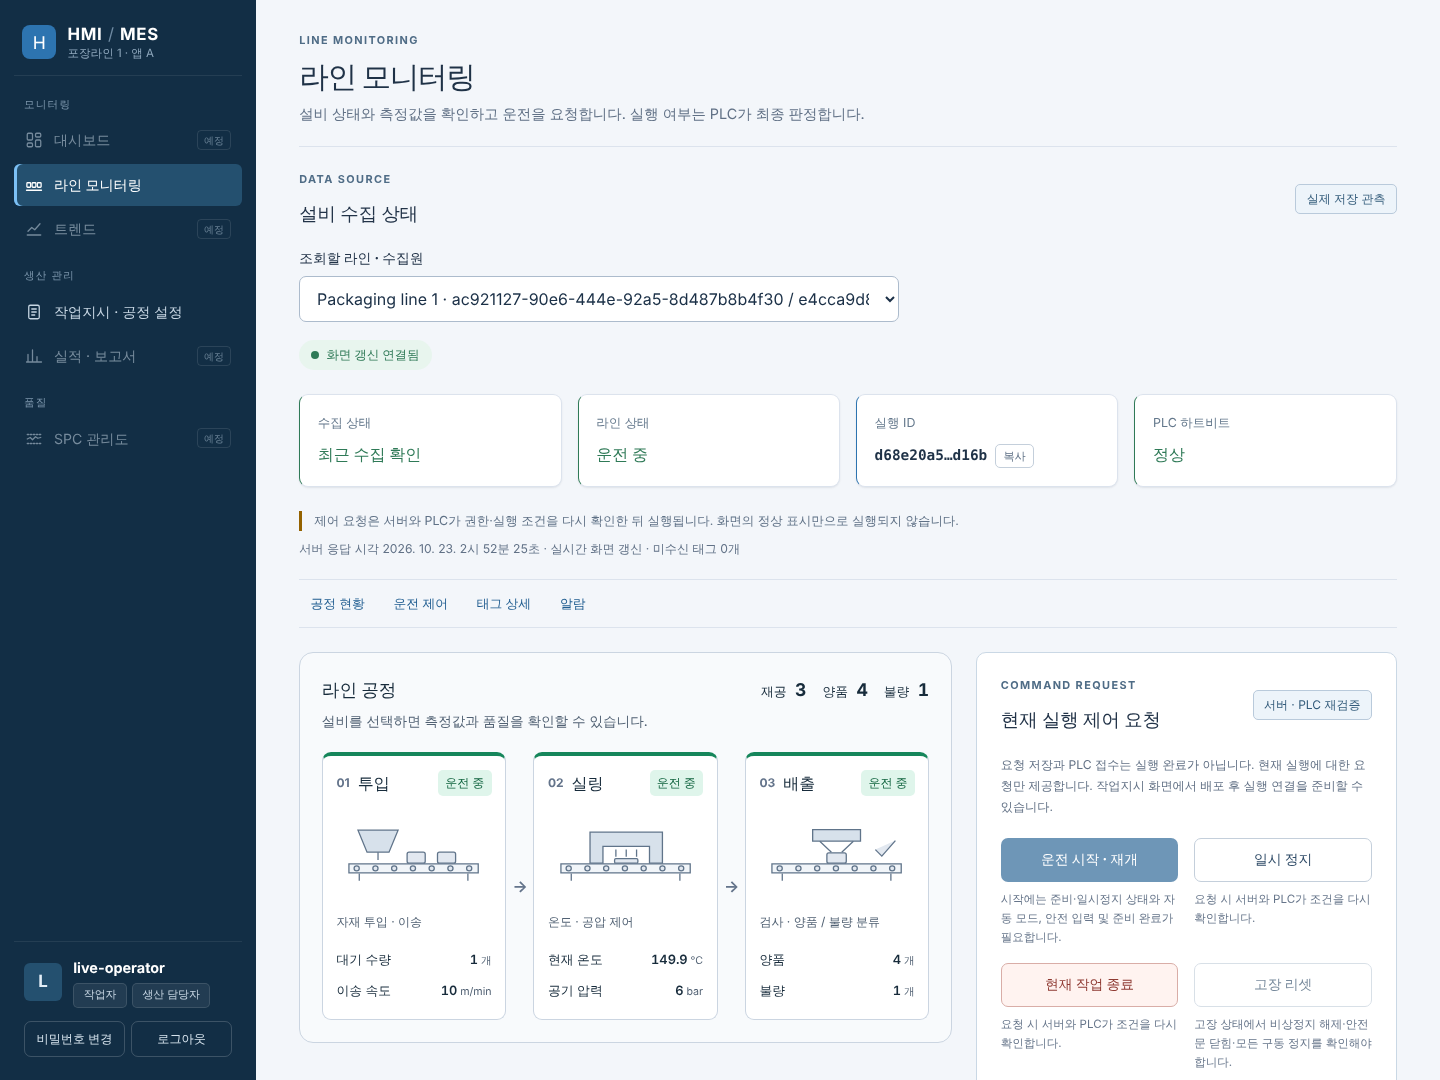
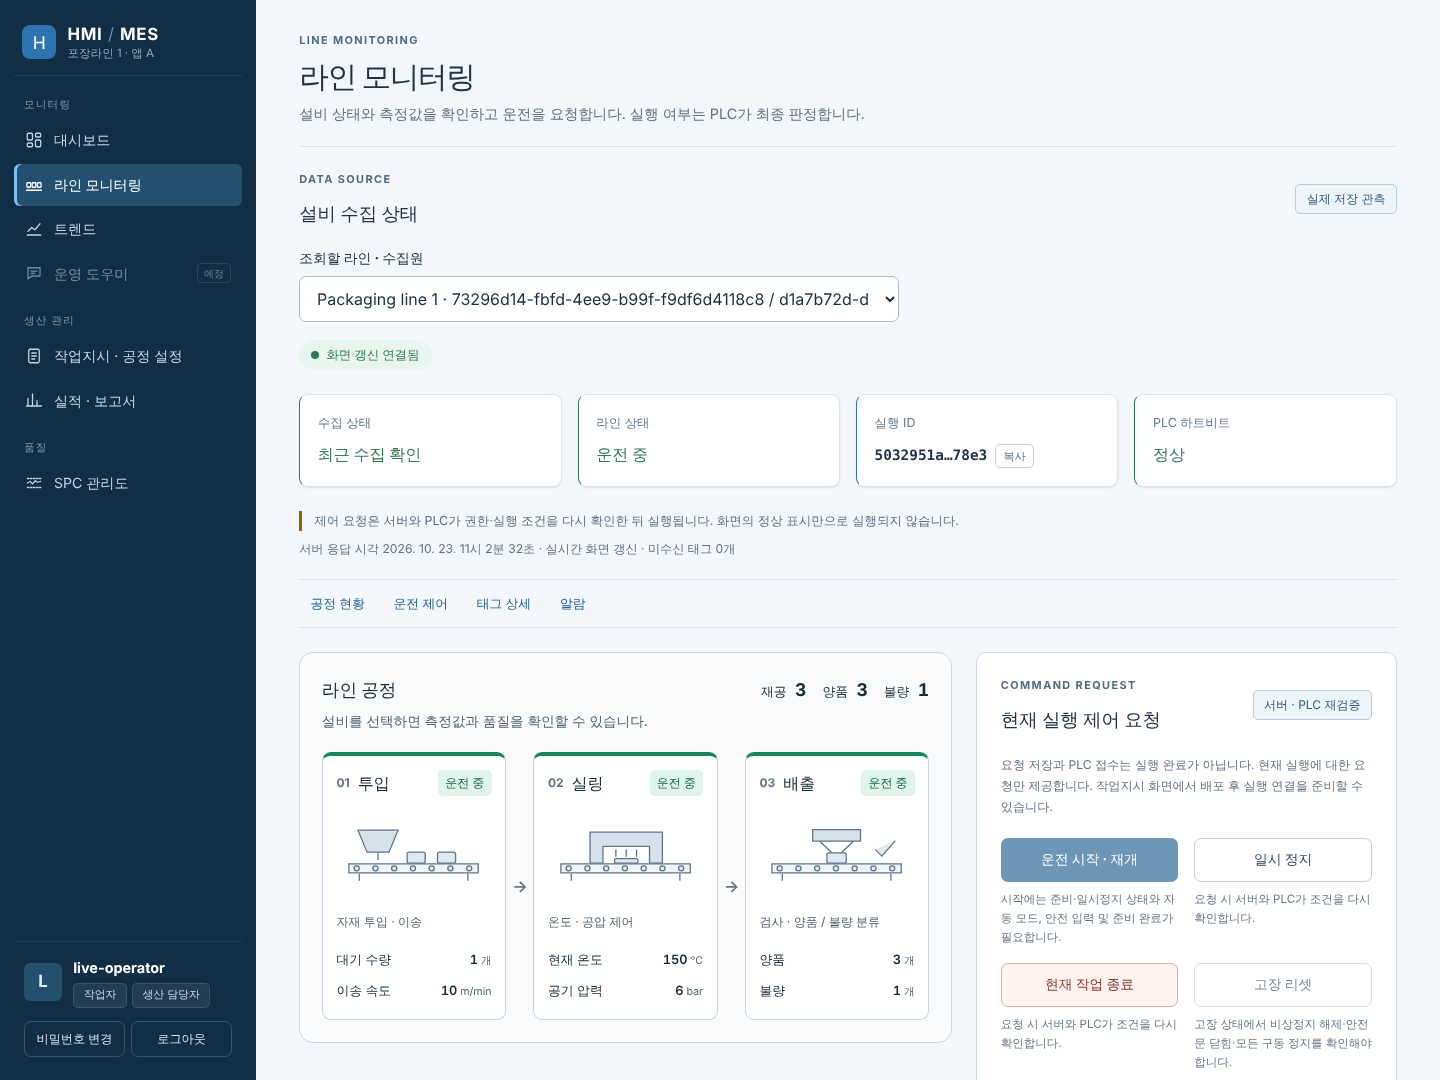
docs(readme): replace trend and report previews with live clock-evidence screens (UX-12)
Claude-Session: https://claude.ai/code/session_0144piUQ1zxLu9Jgprunurpv

diff --git a/README.md b/README.md
@@ -24,13 +24,18 @@ KULS가 공개한 [HMI 시스템 구성예시](https://www.kuls.co.kr/ict/kict/i
 |---|---|
 | 공정도, 48개 태그와 품질, 운전 요청·원래 ID 추적, 실링기 아날로그 알람 | 공정 설정 버전·작업지시 등록, 배포, 라인 실행 연결, 미연결 작업 취소 |
 
-대시보드·트렌드·실적 보고서·SPC 관리도는 서버 API와 결합해 로컬 실제 실행(생산→종료→정산 후 네 화면 조회, CSV 내려받기)으로 검증했습니다. 다만 설비와 서버의 시각 일치 근거(시간 정책)를 아직 실행 환경에 구성하지 않아, 실제 실행에서는 트렌드 값과 가동 시간이 "시간 불명"으로 표시됩니다([작업지시서 v1.1 CX-09](docs/work-orders/CODEX_KULS_보강_v1.md)). 공개 배포에는 아직 적용하지 않았습니다. 아래 이미지는 계약 형식의 **고정 데이터로 렌더링한 미리보기**입니다.
+대시보드·트렌드·실적 보고서·SPC 관리도는 서버 API와 결합해 로컬 실제 실행(생산 → 종료 → 정산 후 화면 조회, CSV 내려받기)으로 검증했습니다. 조회 전용 운영 도우미(챗봇, NVIDIA Nemotron)는 공개 배포에서 실제 모델 응답을 확인했습니다. 같은 호스트의 시계 근거를 켠 실행에서는 트렌드 값과 가동·정지·불명 시간이 실제로 계산됩니다. 근거가 없는 구간은 정상으로 바꾸지 않고 "불명"으로 남깁니다.
 
-| 생산 대시보드 (미리보기) | 설비 트렌드 (미리보기) |
+| 설비 트렌드 (실제 운전) | 실적 · 보고서 (실제 운전) |
 |---|---|
-| ![대시보드 미리보기](docs/assets/screenshots/preview-dashboard.png) | ![트렌드 미리보기](docs/assets/screenshots/preview-trends.png) |
-| **실적 · 보고서 (미리보기)** | **SPC 관리도 (미리보기)** |
-| ![보고서 미리보기](docs/assets/screenshots/preview-reports.png) | ![SPC 미리보기](docs/assets/screenshots/preview-spc.png) |
+| ![트렌드 — 실제 운전](docs/assets/screenshots/live-trends.png) | ![보고서 — 실제 운전](docs/assets/screenshots/live-reports.png) |
+| 1분 남짓의 운전이라 값이 있는 구간으로 자동 확대했습니다. 실링 온도가 설정값까지 오르는 곡선입니다. | 실행별 수량·정산과 가동·정지·불명 시간입니다. 시작 직후 근거가 없는 1초는 "불명"으로 남습니다. |
+| **생산 대시보드 (미리보기)** | **SPC 관리도 (미리보기)** |
+| ![대시보드 미리보기](docs/assets/screenshots/preview-dashboard.png) | ![SPC 미리보기](docs/assets/screenshots/preview-spc.png) |
+
+<sub>위 두 장은 로컬 실제 운전 화면입니다. 아래 두 장은 계약 형식의 **고정 데이터로 렌더링한 미리보기**입니다. 짧은 검증 운전으로는 하루 단위 대시보드가 대부분 "불명"으로 나오고, SPC 관리한계는 20분 이상의 부분군이 쌓여야 계산되기 때문입니다.</sub>
+
+공개 화면(<https://hmi-mes.vercel.app>)에는 0018 이관과 원격 시계 측정이 적용되어 있습니다. 다만 기존 수집분은 측정 이전 데이터라 "시간 불명"으로 남고, 새 운전 데이터부터 시간이 계산됩니다([OPS-02 결과](docs/work-orders/reports/OPS-02.md)).
 
 ## 구현 현황
 
@@ -39,9 +44,9 @@ KULS가 공개한 [HMI 시스템 구성예시](https://www.kuls.co.kr/ict/kict/i
 | M0 계약·기반 (48개 태그, 명령·사건·전송 계약, DB·인증 설계) | 해당 범위 검증 통과 |
 | M1 설비 앱 (공정 모델, 가상 PLC, 명령 원장, SQLite 원자 저장, 인증 콘솔, OPC UA 서버) | 주요 경로 검증 통과, 전체 중단·복원 증적 남음 |
 | M2 연동 (OPC UA → 게이트웨이 버퍼 → HTTP → PostgreSQL, 명령 전달, 최종 정산) | 실제 네트워크 경로 검증 통과, 장시간·복구 성능 측정 남음 |
-| M3 HMI (인증, 실시간 화면, 운전 제어, 알람, 트렌드, 게스트 조회) | 구현·브라우저 검증, 트렌드 시간 근거 구성·통신 알람 남음 |
-| M4 MES (작업지시, 실행 연결·취소, 정산, 실적 보고·CSV, 정지 사유, SPC, 대시보드) | 구현·로컬 실제 결합 검증, 공개 배포 적용 남음 |
-| M5 운영 (수락 시험 T01~T12, 성능, 8시간 운전, 백업·복원) | 미착수 |
+| M3 HMI (인증, 실시간 화면, 운전 제어, 알람, 트렌드, 게스트 조회, 운영 도우미) | 구현·브라우저 검증, 로컬 시간 근거 결합 검증. 공개 화면의 새 데이터 시간 근거 실연 남음 |
+| M4 MES (작업지시, 실행 연결·취소, 정산, 실적 보고·CSV, 정지 사유, SPC, 대시보드) | 구현·로컬 실제 결합 검증, 공개 배포(DB 0018) 적용 |
+| M5 운영 (수락 시험 T01~T12, 성능, 장시간 운전, 백업·복원) | 일부 진행: T01~T12 분할 17개 통과(한 번에 묶은 실행 미실행), 백업 세트·별도 복원 검증. **30분 단절 후 5분 내 복구 실패**, 7일 이력 성능·깨끗한 빌드 릴리스 미실행, 8시간 운전 제외 |
 
 **전체 프로젝트는 아직 완료되지 않았습니다.** 작은 작업 단위의 통과를 전체 완료로 표시하지 않으며, 세부 근거는 [개발 진행 상태](docs/DEVELOPMENT_STATUS.md)와 [수락 시험 대응표](docs/ACCEPTANCE_EVIDENCE.md)에 있습니다.
 
@@ -52,15 +57,15 @@ CI 대신 저장소에 포함된 로컬 검사로 검증합니다. Docker(Postgr
 ```sh
 ./scripts/bootstrap-python.sh && ./scripts/bootstrap-web.sh && ./scripts/bootstrap-postgres.sh
 ./scripts/check-local.sh                                   # 린트·형식·Python 시험·웹 시험·타입 검사·빌드
-VITE_SCREEN_TRANSPORT=polling npm --prefix apps/web run build
+VITE_SCREEN_TRANSPORT=polling VITE_ANALYTICS_PAGES=enabled npm --prefix apps/web run build
 .venv/bin/python scripts/check-operable-system.py          # 브라우저 → API → PostgreSQL → 게이트웨이 → OPC UA → 정산
 ```
 
 | 검사 | 최근 결과 |
 |---|---|
-| `check-local.sh` 전체 | 2026-10-23 통과 — Python 2,098개, 웹 시험·타입 검사·린트·빌드 |
-| `check-operable-system.py` | 2026-10-23 PASS — 실제 설비 앱 생산·일시정지·종료 후 최종 수량 SETTLED 일치 |
-| `check-operable-system.py --analytics-dir … --guest-dir …` | 2026-10-23 PASS — 정산된 실행으로 대시보드·트렌드·보고서(CSV 포함)·SPC 실제 API 조회, 게스트 버튼 진입·쓰기 403 |
+| `check-local.sh` 전체 | 2026-10-23 통과(Codex 실행) — Python 2,354개, 웹 시험·타입 검사·린트·빌드 |
+| `check-operable-system.py --analytics-dir …` | 2026-10-23 PASS — 같은 호스트 시계 근거로 실제 생산·정산 후 분석 화면 조회. 트렌드 GOOD 138점, 가동 6.4초, 정산 수량 일치 |
+| `check-operable-system.py --guest-dir …` | 2026-10-23 PASS — 게스트 버튼 진입, 조회 전용, 쓰기 403 |
 | `check-app-a-browser.py` | 2026-10-23 PASS — 로그인·권한·응답 유실 복구·작업지시·알람·취소 브라우저 시나리오 |
 
 ## 개발 방식

diff --git a/docs/DEVELOPMENT_STATUS.md b/docs/DEVELOPMENT_STATUS.md
@@ -468,3 +468,7 @@ M1의 주요 독립 운전·권한·실제 생산 경로는 확인했지만, 원
   - 값이 있는 구간이 조회 기간의 절반 미만이면 그 구간으로 확대해 보여 준다. "값이 있는 구간만 확대" 안내와 "전체 기간 보기" 전환을 둔다. 유효 표본·누락 수는 조회 기간 전체 기준으로 그대로 표시한다.
   - 짧은 구간에서는 가로축 눈금을 10·15·30초 단위로 쓰고 초까지 표기한다.
   - 검증: 웹 시험 92개(확대 범위 계산 시험 추가)·typecheck·lint 통과, 실제 운전 검사 PASS(GOOD 144점, 가동 3.992초). 화면에서 1시간 조회의 1분 운전이 가열 곡선으로 읽힌다.
+- UX-12 README 갱신(2026-10-23):
+  - 라인 모니터링·트렌드·실적 보고서를 같은 호스트 시계 근거를 켠 로컬 실제 운전 화면으로 교체했다(트렌드 GOOD 138점, 가동 6.4초, 정산 일치).
+  - 대시보드·SPC는 짧은 운전으로는 의미 있는 화면이 나오지 않아 고정 데이터 미리보기를 유지하고, 그 이유를 README에 적었다.
+  - 구현 현황(M3~M5)과 검증 결과 표를 현재 상태로 갱신했다. 실패(30분 단절 복구)·미실행·제외 항목을 그대로 표시한다.
